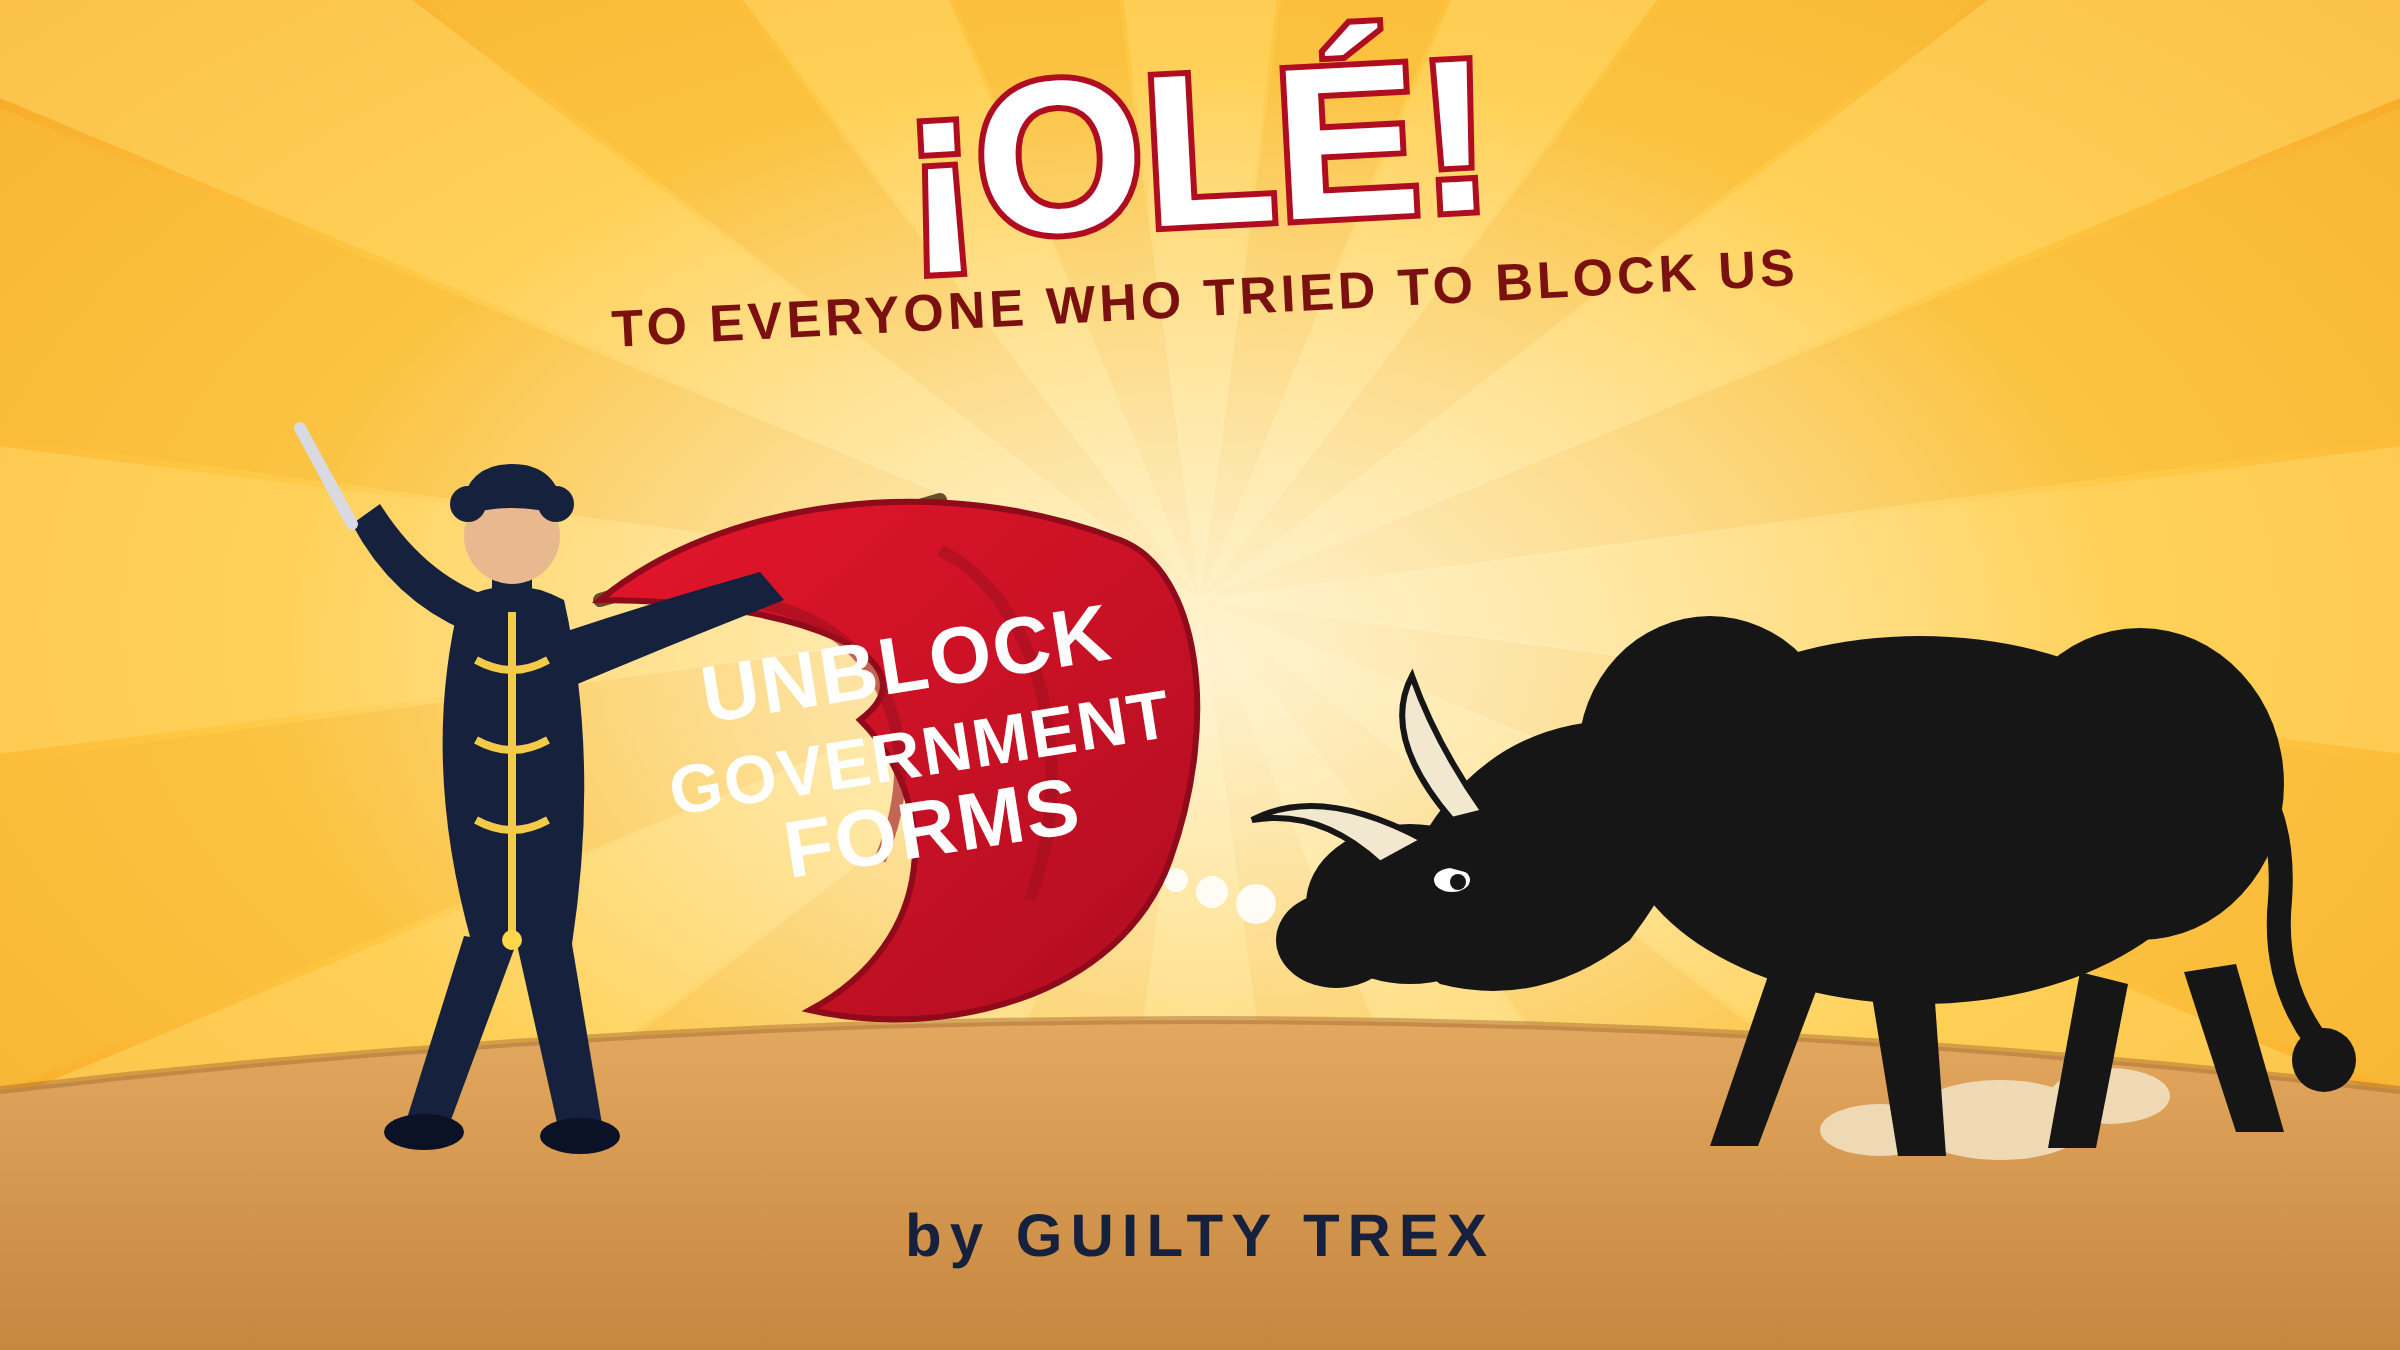
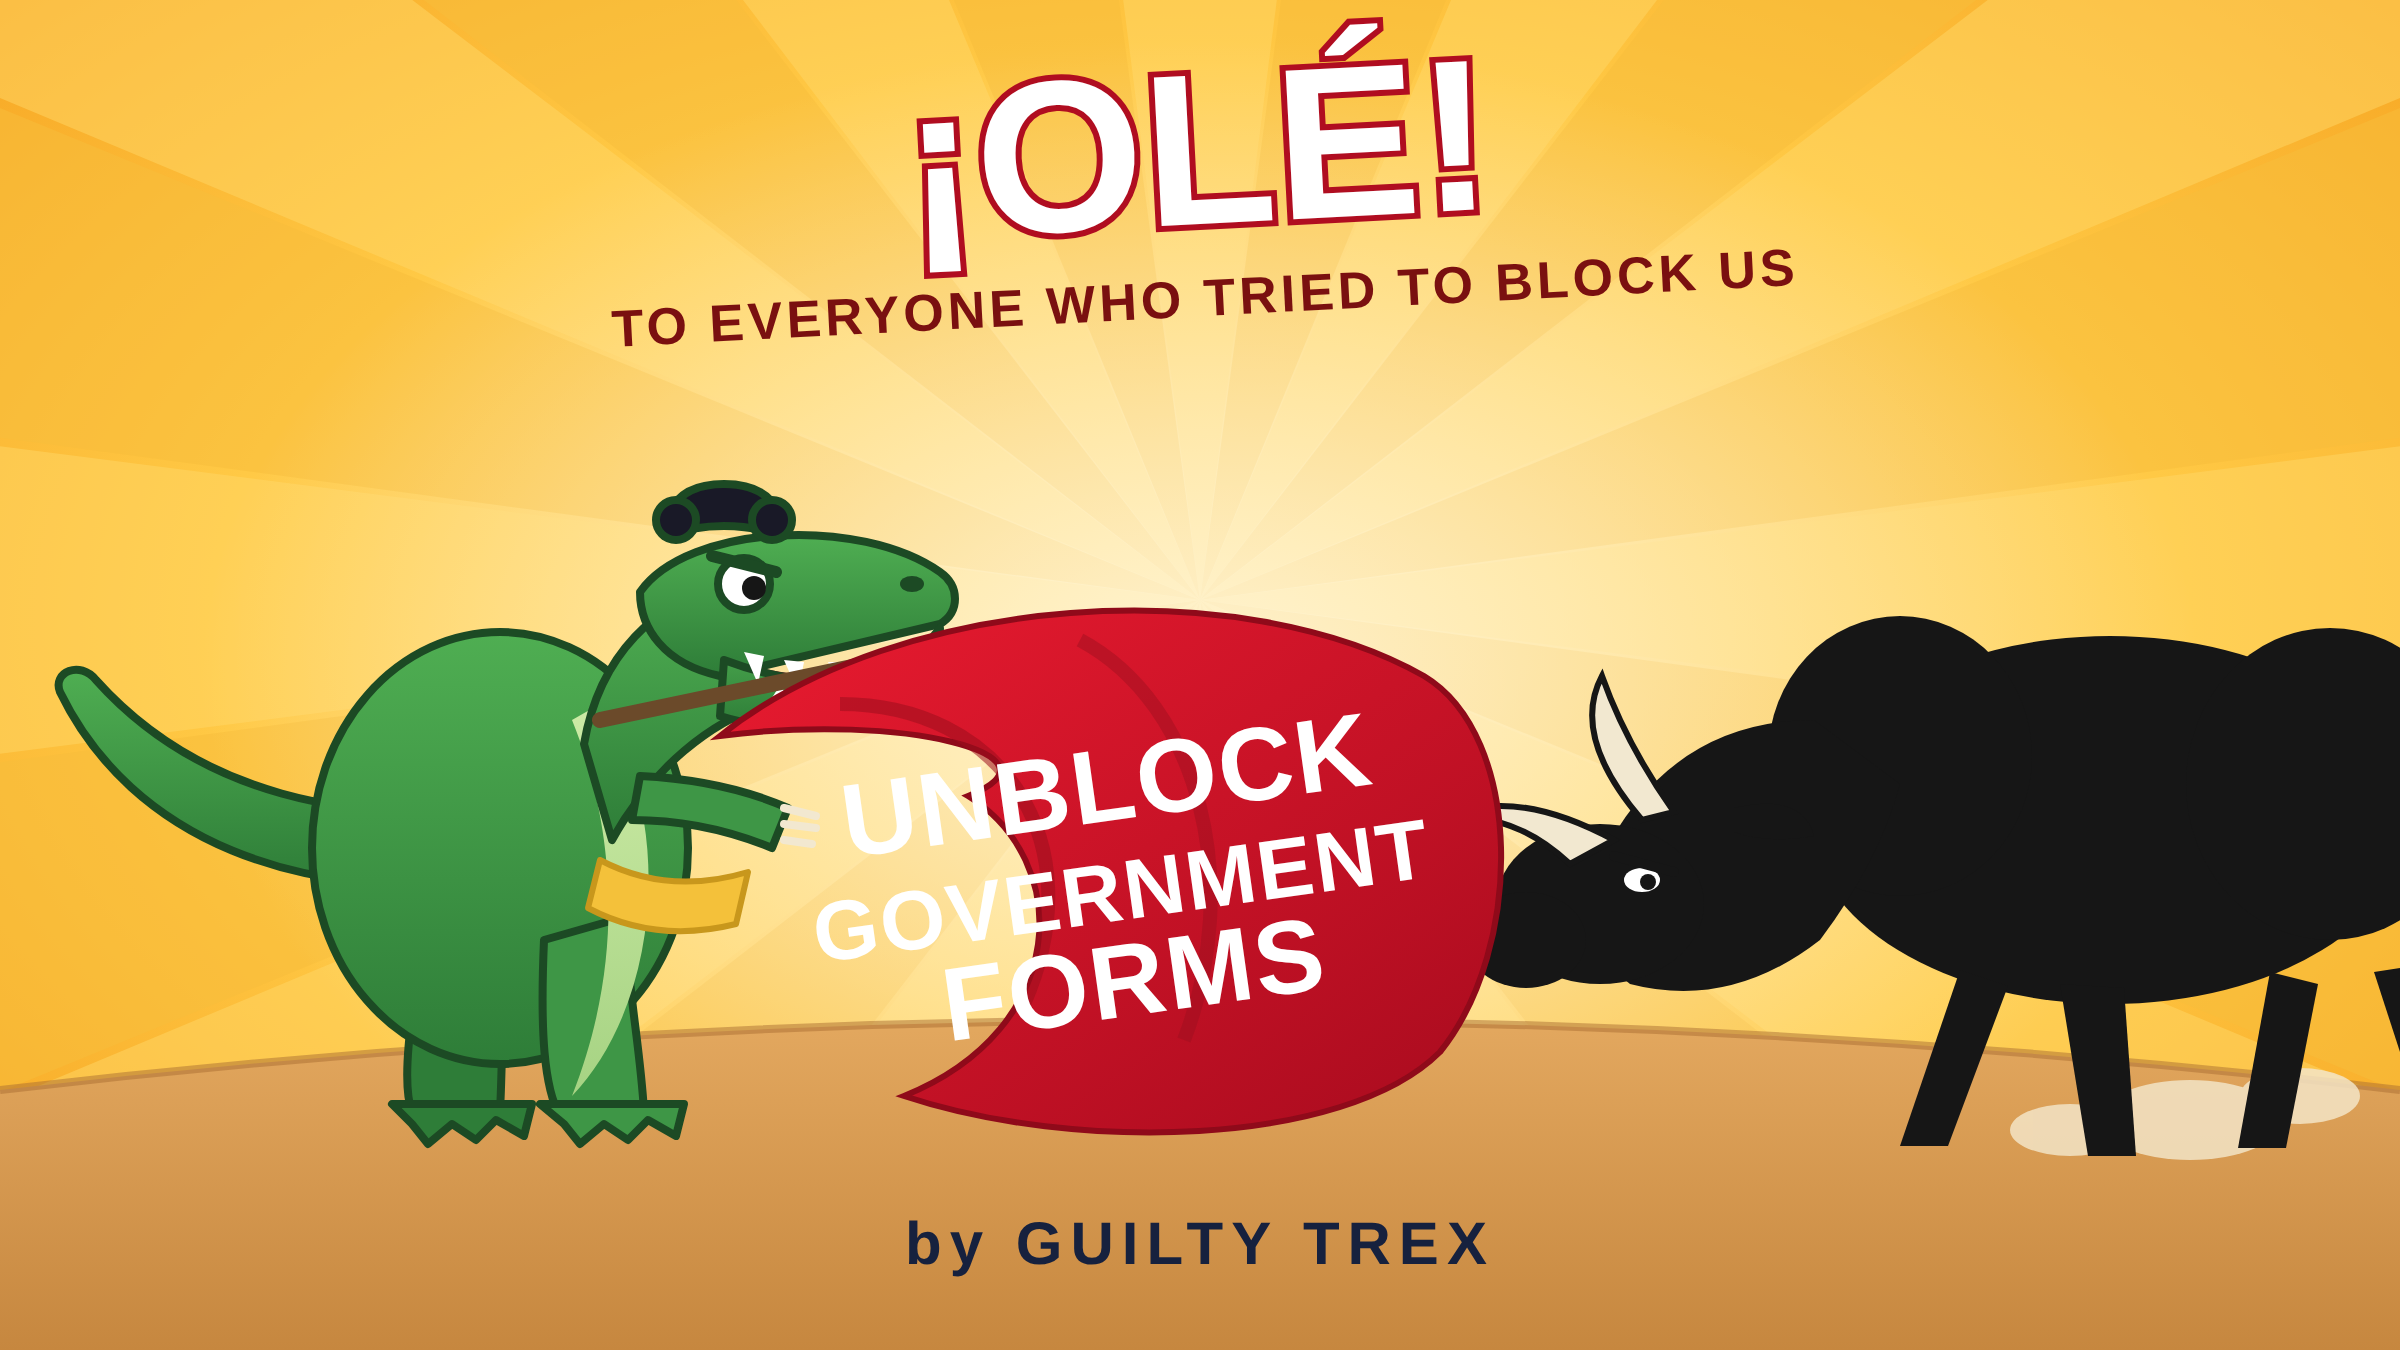
Redesign hero as GUILTY TREX T-Rex matador; document no-download online use
- Replace the human matador with a green T-Rex bullfighter (montera hat,
  gold sash, tiny arm) and enlarge the red cape
- README: add "Two ways to use it" — an online no-download link plus the
  offline download, and state the repo name/URL

Claude-Session: https://claude.ai/code/session_01RVgxoTKap4QTPKbSxAMM4X

Changed region(s): [[0.0, 0.3111, 1.0, 0.8711], [0.375, 0.9022, 0.625, 0.9644]]

diff --git a/README.md b/README.md
@@ -102,8 +102,8 @@ Then print or save a clean PDF:
 
 ## 🚀 Quick start
 
-1. **Open the app.** Download [`index.html`](index.html) and open it in any browser
-   (double-click on a computer, or tap the file on a phone).
+1. **Open the app** — [online with no download](#-two-ways-to-use-it--your-choice-always),
+   or download [`index.html`](index.html) and open it in any browser.
 2. **My Info** — enter your details once and tap **Save my info**.
 3. **Fill a Form** — pick a template. Your saved details fill in automatically.
 4. Add the event-specific details (event name, date, session), then tap
@@ -129,21 +129,35 @@ Every field is editable, so you can adapt any template to a specific form.
 
 ---
 
-## 📥 Getting the app
+## 📥 Two ways to use it — your choice, always
 
-**Option A — Download the file (private, works offline).**
-Download [`index.html`](index.html) from this repo and open it. Nothing else needed.
+**Repository:** `theequationagency-dev/unblock-government-forms-filler`
+👉 https://github.com/theequationagency-dev/unblock-government-forms-filler
 
-**Option B — Free web link via GitHub Pages.**
-Make the repository public, then enable it once under
-**Settings → Pages → Deploy from a branch → `main` / `root`**. Your site goes live at:
+### 🌐 Use it online — no download needed
+Don't want to download anything? You don't have to. Open it right in your browser:
+
+```
+https://raw.githack.com/theequationagency-dev/unblock-government-forms-filler/main/index.html
+```
+
+Tap it and it just runs — on your phone or computer. Add it to your home screen and
+it opens like an app. Nothing to install, ever.
+
+### 📄 Or download it — works fully offline
+Prefer to keep your own copy? Download [`index.html`](index.html) and open it. Once
+it's on your device it works with **no internet at all**.
+
+### ⭐ Optional: your own clean web link (GitHub Pages)
+For a permanent link on your own GitHub address, enable it once under
+**Settings → Pages → Deploy from a branch → `main` / `root`**. It then goes live at:
 
 ```
 https://theequationagency-dev.github.io/unblock-government-forms-filler/
 ```
 
-GitHub Pages is free for public repositories. The published code contains **no
-personal data** — your saved info always stays in your browser, never in the repo.
+Either way, the published code contains **no personal data** — your saved info always
+stays in your browser, never in the repo.
 
 ---
 